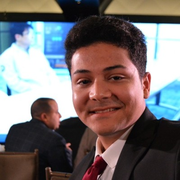
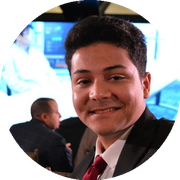
Add files via upload

diff --git a/index.html b/index.html
@@ -109,11 +109,12 @@
   .btn.ghost:hover{ border-color:var(--accent); color:var(--accent); }
 
   .hero-photo{
-    position:relative; border-radius:18px; overflow:hidden;
+    position:relative; border-radius:50%; overflow:hidden;
     box-shadow:0 30px 60px -28px rgba(30,42,51,0.35);
     border:1px solid var(--line);
+    width:100%; max-width:340px; margin:0 auto; aspect-ratio:1/1;
   }
-  .hero-photo img{ display:block; width:100%; height:100%; object-fit:cover; aspect-ratio:1/1; }
+  .hero-photo img{ display:block; width:100%; height:100%; object-fit:cover; border-radius:50%; }
 
   /* ---------- About ---------- */
   .about{ background:var(--surface); border-top:1px solid var(--line); border-bottom:1px solid var(--line); }
